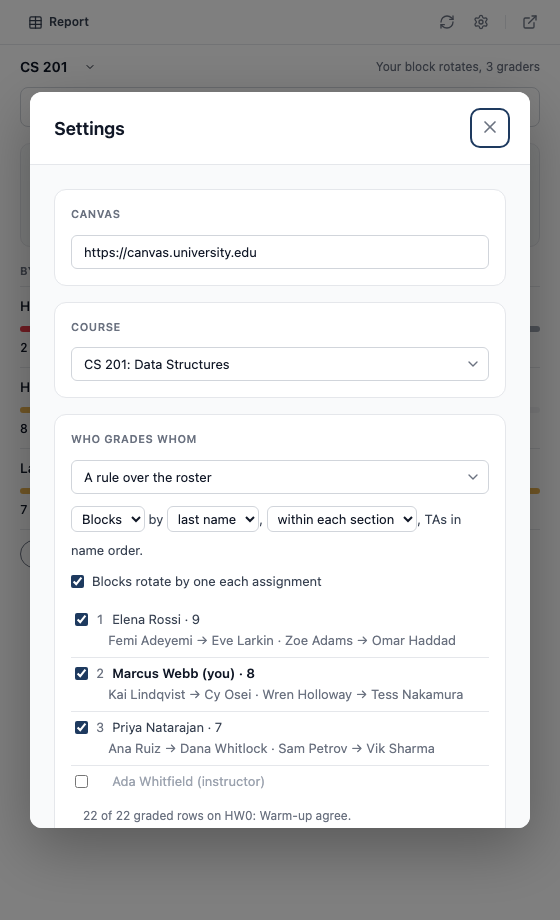
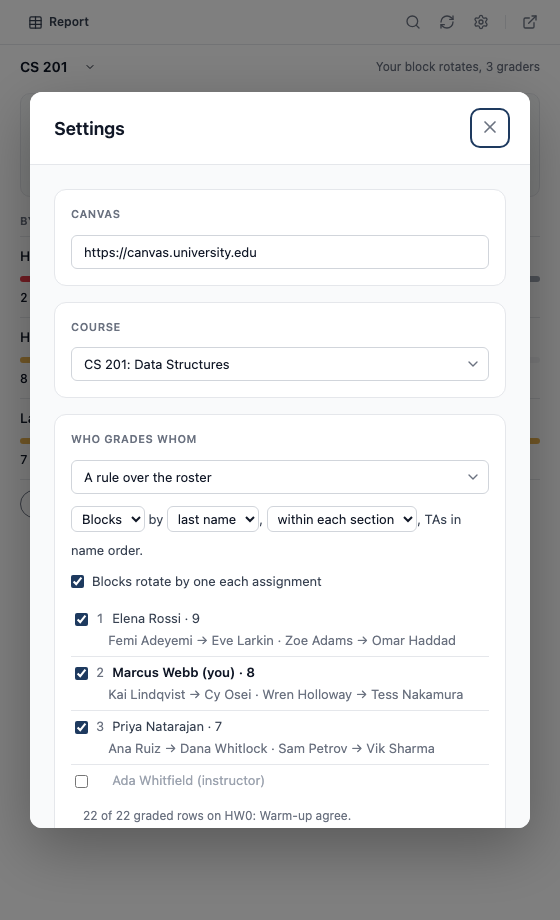
Grading screenshots show search as a header button

diff --git a/docs/index.html b/docs/index.html
@@ -542,7 +542,7 @@
                 <p class="sub">Fictional course, invented students: nothing in these captures comes from a real Canvas course.</p>
 
                 <div class="shot-feature">
-                    <div class="shot-media"><img src="ss-grading-queue.png?v=5" width="560" height="806" alt="The Kandue for Graders queue: 17 to grade over a bar split into 2 waiting 7+ days and 15 under 7, a You / Everyone switch, then rows for HW0, HW1 and Lab 2, each with its longest wait (11 days, in red, for HW0), a bar and a line such as &quot;2 of your 8 to grade · 6 graded&quot;, and Not due yet and Done pills under the list" loading="lazy" decoding="async"></div>
+                    <div class="shot-media"><img src="ss-grading-queue.png?v=6" width="560" height="806" alt="The Kandue for Graders queue: 17 to grade over a bar split into 2 waiting 7+ days and 15 under 7, a You / Everyone switch, then rows for HW0, HW1 and Lab 2, each with its longest wait (11 days, in red, for HW0), a bar and a line such as &quot;2 of your 8 to grade · 6 graded&quot;, and Not due yet and Done pills under the list" loading="lazy" decoding="async"></div>
                     <div class="shot-copy">
                         <h4>Who is waiting on you</h4>
                         <p>Every assignment with students of yours still to grade, the longest wait at the top. Each row says how long the first of your students has waited and how many of them are still to grade, with a bar for your block.</p>
@@ -551,12 +551,12 @@
 
                 <div class="shot-grid">
                     <div class="shot">
-                        <img src="ss-grading-work.png?v=5" width="560" height="820" alt="The worklist for HW0: Warm-up, due 11 days ago, with the grader's median score against the other graders', Rosa Mendes and Nia Okafor marked To grade after waiting 11 days, and the students around them already scored 4 or 5 out of 5" loading="lazy" decoding="async">
+                        <img src="ss-grading-work.png?v=6" width="560" height="820" alt="The worklist for HW0: Warm-up, due 11 days ago, with the grader's median score against the other graders', Rosa Mendes and Nia Okafor marked To grade after waiting 11 days, and the students around them already scored 4 or 5 out of 5" loading="lazy" decoding="async">
                         <h4>The worklist for your block</h4>
                         <p>To grade, graded with the score, resubmitted, late, missing or excused, each student one click from SpeedGrader.</p>
                     </div>
                     <div class="shot">
-                        <img src="ss-grading-split.png?v=6" width="560" height="920" alt="Kandue for Graders settings showing who grades whom: three TAs with their student ranges, the signed-in grader's own block in bold, and a note that 22 of 22 graded rows match this split" loading="lazy" decoding="async">
+                        <img src="ss-grading-split.png?v=7" width="560" height="920" alt="Kandue for Graders settings showing who grades whom: three TAs with their student ranges, the signed-in grader's own block in bold, and a note that 22 of 22 graded rows match this split" loading="lazy" decoding="async">
                         <h4>Who grades whom, read back</h4>
                         <p>The split every TA is actually using, checked against every grade already entered, with the disagreements named.</p>
                     </div>
